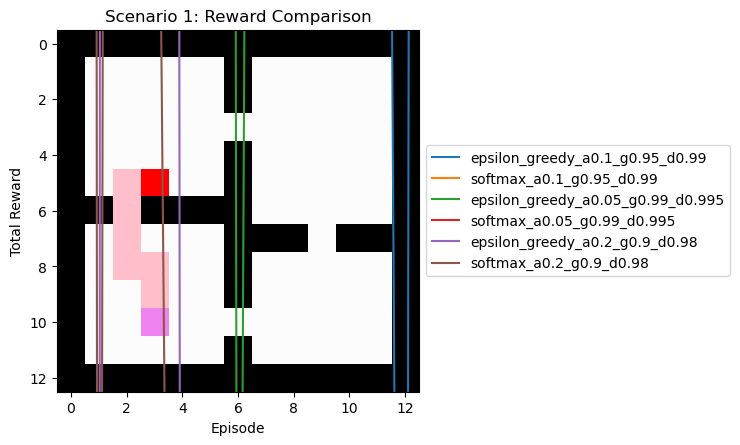
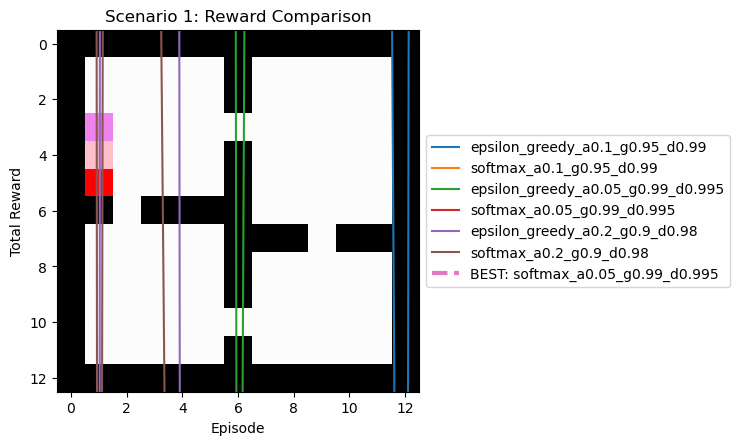
Upgrade my functionality so that I have access to the best plots identified by the hyperparameter tuning

Changed region(s): [[0.5595, 0.2921, 0.9946, 0.6427], [0.0932, 0.2337, 0.2486, 0.7596]]

diff --git a/Scenario1.py b/Scenario1.py
@@ -25,13 +25,12 @@ PARAM_GRID = [
 # Q-table
 Q = {}
 
-# Action selection strategies
 def softmax_selection(state, tau):
     if state not in Q:
         Q[state] = np.zeros(len(ACTIONS))
     preferences = Q[state] / tau
     max_pref = np.max(preferences)
-    exp_prefs = np.exp(preferences - max_pref)  # numerical stability
+    exp_prefs = np.exp(preferences - max_pref)
     probs = exp_prefs / np.sum(exp_prefs)
     return np.random.choice(ACTIONS, p=probs)
 
@@ -56,7 +55,7 @@ def train_strategy(strategy, alpha, gamma, epsilon_decay, log_file):
     global Q
     Q = {}
     epsilon = EPSILON_START
-    tau = 1.0  # for softmax
+    tau = 1.0
     rewards = []
 
     env = FourRooms('simple', stochastic='-stochastic' in sys.argv)
@@ -96,6 +95,7 @@ def main():
 
     os.makedirs("logs", exist_ok=True)
     os.makedirs("plots", exist_ok=True)
+    os.makedirs("best_plots", exist_ok=True)
 
     log_file_path = os.path.join("logs", "scenario1_comparison_log.txt")
     with open(log_file_path, "w") as log_file:
@@ -103,6 +103,11 @@ def main():
         log_file.write("Scenario 1: ε-greedy vs Softmax Exploration Comparison\n")
         print(f"Using seed: {SEED}\n")
         log_file.write(f"Using seed: {SEED}\n\n")
+
+        best_avg_reward = float('-inf')
+        best_label = None
+        best_rewards = []
+        best_env = None
 
         for params in PARAM_GRID:
             alpha, gamma, decay = params['alpha'], params['gamma'], params['epsilon_decay']
@@ -113,6 +118,17 @@ def main():
                 rewards, env = train_strategy(strategy, alpha, gamma, decay, log_file)
                 plt.plot(rewards, label=label)
                 env.showPath(-1, savefig=f"./plots/scenario_1_{label}_path.png")
+
+                avg_last_50 = np.mean(rewards[-50:])
+                if avg_last_50 > best_avg_reward:
+                    best_avg_reward = avg_last_50
+                    best_label = label
+                    best_rewards = rewards
+                    best_env = env
+
+        # Highlight best run
+        plt.plot(best_rewards, label=f"BEST: {best_label}", linewidth=3, linestyle='--')
+        best_env.showPath(-1, savefig=f"./best_plots/scenario_1_best_run_path.png")
 
         plt.title("Scenario 1: Reward Comparison")
         plt.xlabel("Episode")

diff --git a/Scenario3.py b/Scenario3.py
@@ -48,7 +48,7 @@ def get_state(env):
 def get_reward(cell_type, is_terminal, packages_remaining):
     if is_terminal:
         if packages_remaining == 0:
-            return 100  # Successfully collected R->G->B
+            return 100  # Correctly collected R->G->B
         else:
             return -100  # Wrong order
     elif cell_type > 0:
@@ -99,6 +99,7 @@ def main():
 
     os.makedirs("logs", exist_ok=True)
     os.makedirs("plots", exist_ok=True)
+    os.makedirs("best_plots", exist_ok=True)
 
     log_file_path = os.path.join("logs", "scenario3_comparison_log.txt")
     with open(log_file_path, "w") as log_file:
@@ -106,6 +107,11 @@ def main():
         log_file.write("Scenario 3: ε-greedy vs Softmax Exploration Comparison\n")
         print(f"Using seed: {SEED}\n")
         log_file.write(f"Using seed: {SEED}\n\n")
+
+        best_avg_reward = float('-inf')
+        best_label = None
+        best_rewards = []
+        best_env = None
 
         for params in PARAM_GRID:
             alpha, gamma, decay = params['alpha'], params['gamma'], params['epsilon_decay']
@@ -116,6 +122,17 @@ def main():
                 rewards, env = train_strategy(strategy, alpha, gamma, decay, log_file)
                 plt.plot(rewards, label=label)
                 env.showPath(-1, savefig=f"./plots/scenario_3_{label}_path.png")
+
+                avg_last_50 = np.mean(rewards[-50:])
+                if avg_last_50 > best_avg_reward:
+                    best_avg_reward = avg_last_50
+                    best_label = label
+                    best_rewards = rewards
+                    best_env = env
+
+        # Highlight best run
+        plt.plot(best_rewards, label=f"BEST: {best_label}", linewidth=3, linestyle='--')
+        best_env.showPath(-1, savefig=f"./best_plots/scenario_3_best_run_path.png")
 
         plt.title("Scenario 3: Reward Comparison")
         plt.xlabel("Episode")

diff --git a/Scenario2.py b/Scenario2.py
@@ -96,6 +96,7 @@ def main():
 
     os.makedirs("logs", exist_ok=True)
     os.makedirs("plots", exist_ok=True)
+    os.makedirs("best_plots", exist_ok=True)
 
     log_file_path = os.path.join("logs", "scenario2_comparison_log.txt")
     with open(log_file_path, "w") as log_file:
@@ -103,6 +104,11 @@ def main():
         log_file.write("Scenario 2: ε-greedy vs Softmax Exploration Comparison\n")
         print(f"Using seed: {SEED}\n")
         log_file.write(f"Using seed: {SEED}\n\n")
+
+        best_avg_reward = float('-inf')
+        best_label = None
+        best_rewards = []
+        best_env = None
 
         for params in PARAM_GRID:
             alpha, gamma, decay = params['alpha'], params['gamma'], params['epsilon_decay']
@@ -113,6 +119,17 @@ def main():
                 rewards, env = train_strategy(strategy, alpha, gamma, decay, log_file)
                 plt.plot(rewards, label=label)
                 env.showPath(-1, savefig=f"./plots/scenario_2_{label}_path.png")
+
+                avg_last_50 = np.mean(rewards[-50:])
+                if avg_last_50 > best_avg_reward:
+                    best_avg_reward = avg_last_50
+                    best_label = label
+                    best_rewards = rewards
+                    best_env = env
+
+        # Highlight best run
+        plt.plot(best_rewards, label=f"BEST: {best_label}", linewidth=3, linestyle='--')
+        best_env.showPath(-1, savefig=f"./best_plots/scenario_2_best_run_path.png")
 
         plt.title("Scenario 2: Reward Comparison")
         plt.xlabel("Episode")
